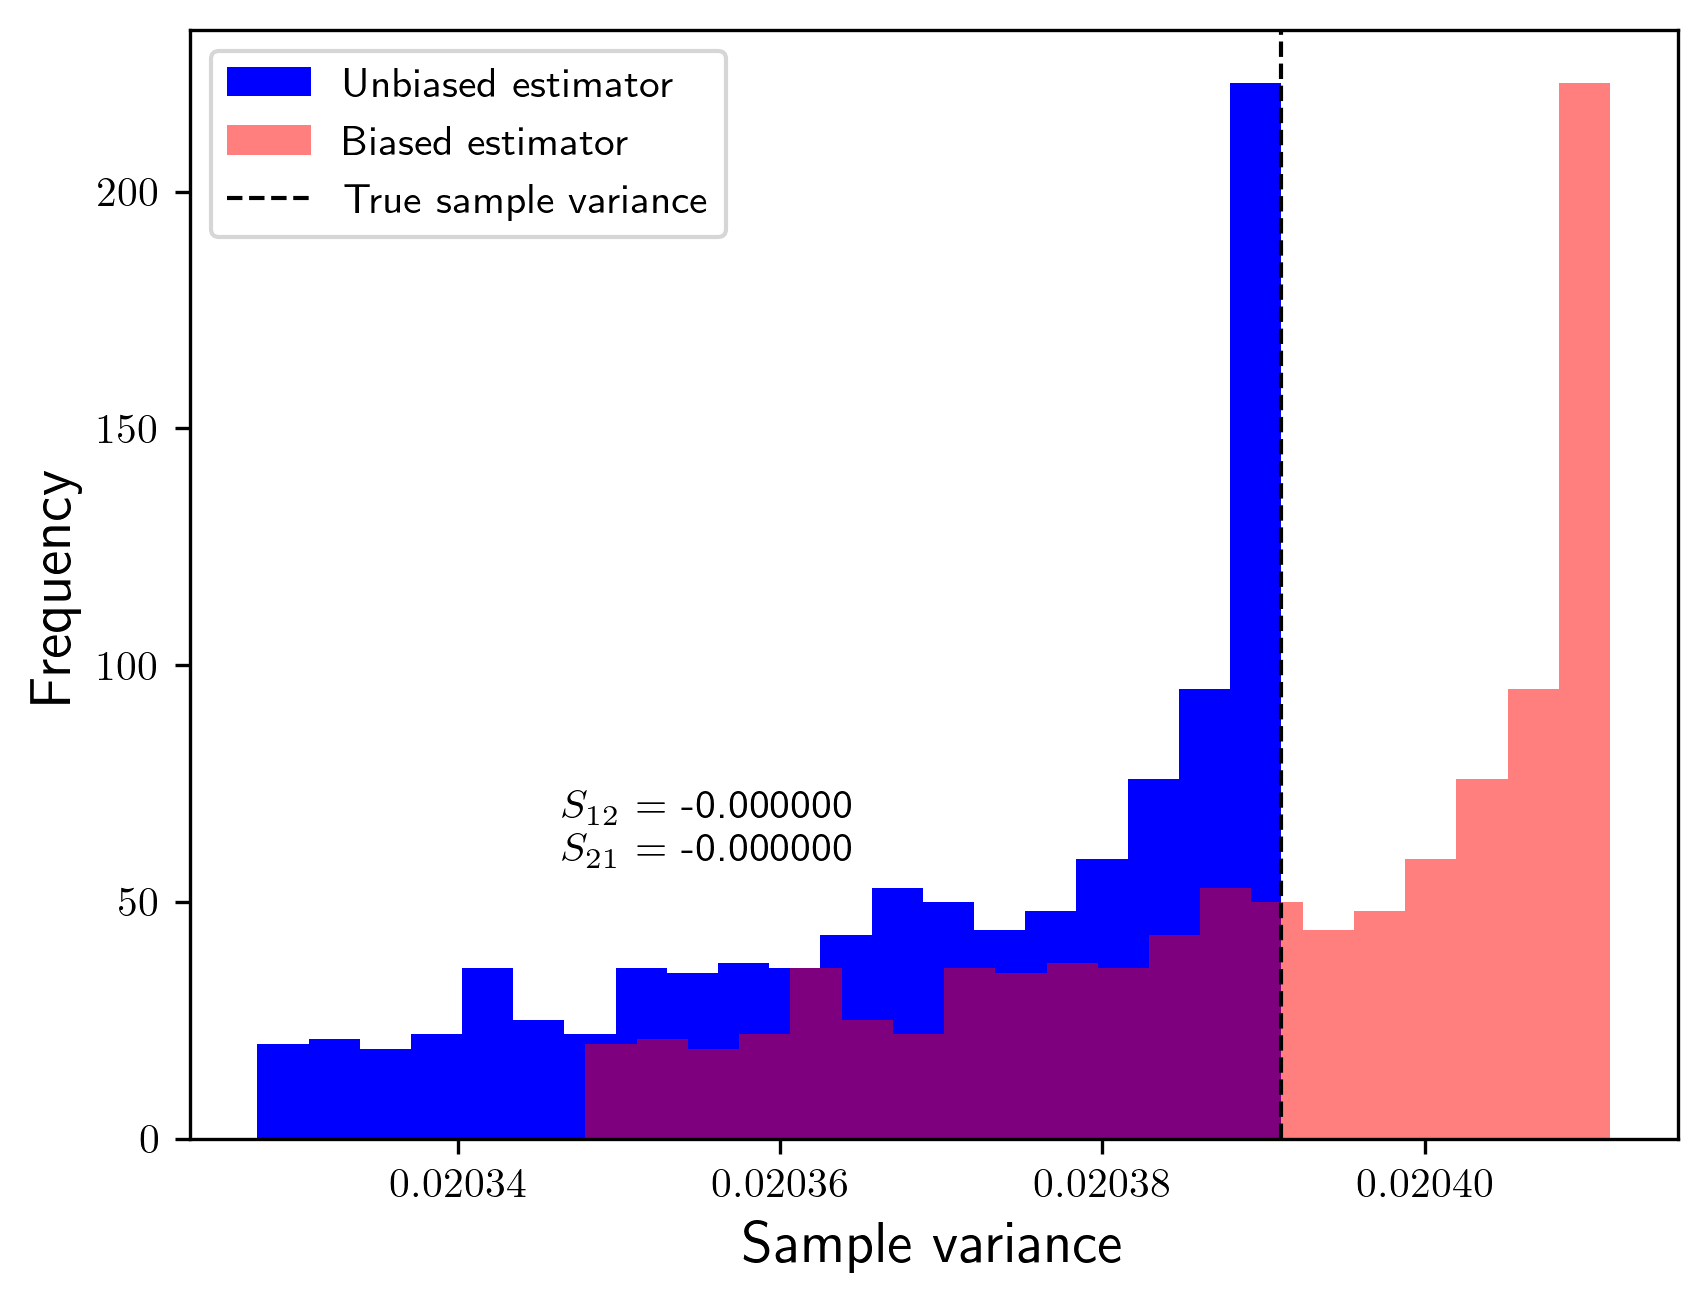
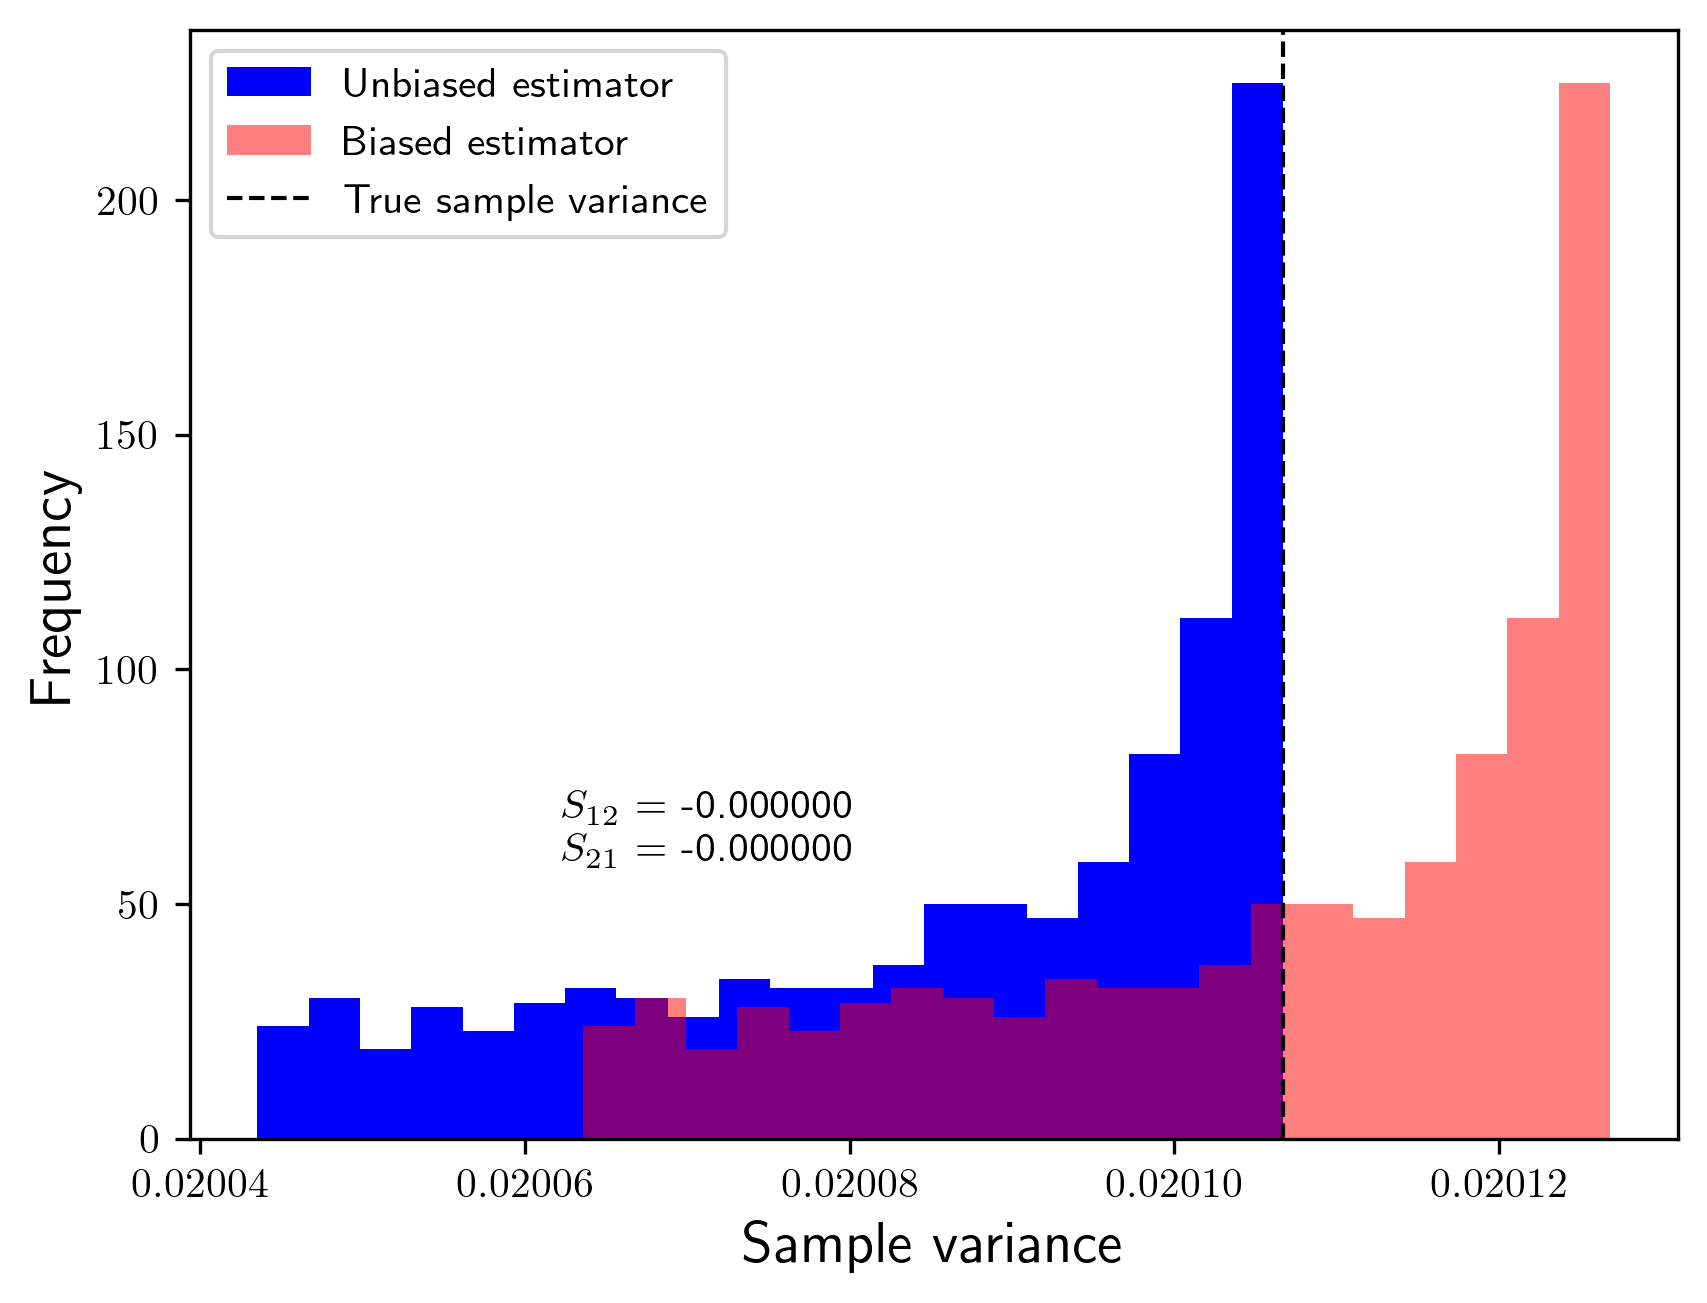
Added files

diff --git a/n_point_func.py b/n_point_func.py
@@ -1,0 +1,90 @@
+#!/usr/bin/python3
+
+import numpy as np
+import matplotlib.pyplot as plt
+from scipy.ndimage import correlate
+from gen_gauss_2D import gauss_2D
+
+import numpy as np
+from scipy.signal import correlate2d
+
+# Define the field
+size = 128
+field = gauss_2D(size=size, alpha=1)
+field += gauss_2D(size=size, alpha=0)
+field += gauss_2D(size=size, alpha=2)
+
+
+# # Create a non-Gaussian component by adding a sinusoidal modulation
+# x, y = np.meshgrid(np.arange(size), np.arange(size))
+# field += 1 * np.sin(2 * np.pi * (x + y) / size)
+
+# Calculate the autocorrelation function
+autocorr = correlate2d(field, field, mode='same')
+corrfunc = autocorr #/ (field.size * field.mean()**2)
+
+# Calculate the distance from the center of the field to each point
+x, y = np.meshgrid(np.arange(field.shape[0]), np.arange(field.shape[1]))
+r = np.sqrt((x - field.shape[0]/2)**2 + (y - field.shape[1]/2)**2)
+
+# Calculate the radial average of the correlation function
+# Define the bins
+bins = np.arange(0, np.ceil(r.max()), 1)
+# Get the indices of the bins
+digitized = np.digitize(r.flat, bins)
+radial_avg = np.zeros(len(bins))
+for i in range(1, len(bins)):
+    # For each bin, find the indices of the correlation function
+    # that fall within that bin, then calculate the mean of those indices
+    radial_avg[i-1] = corrfunc.flat[digitized == i].mean()
+
+
+def three_point_function(field, r_bins):
+    # Compute the shape of the field
+    nx, ny = field.shape
+
+    # Generate a grid of indices
+    x, y = np.meshgrid(np.arange(nx), np.arange(ny), indexing='ij')
+
+    # Compute the pairwise distances between all points
+    dx = x[:, :, np.newaxis] - x[:, np.newaxis, :]
+    dy = y[:, :, np.newaxis] - y[:, np.newaxis, :]
+    distances = np.sqrt(dx**2 + dy**2)
+
+    # Compute the product of the field at all points
+    product = field[:, :, np.newaxis] * field[:, np.newaxis, :] * field[np.newaxis, :, :]
+
+    # Compute the bin indices for each pair of points
+    bin_indices = np.digitize(distances.flat, r_bins, right=True)
+
+    # Compute the sum and count for each bin using bincount
+    sums = np.bincount(bin_indices, weights=product.flat)
+    counts = np.bincount(bin_indices)
+
+    # Compute the average for each bin
+    average = sums[1:] / counts[1:]
+
+    return average
+
+
+r_bins = np.arange(0, r.max(), 1)
+three_pcf = three_point_function(field, r_bins)
+
+# Plot the field and the correlation function
+plt.rcParams.update({"text.usetex": True})
+plt.rcParams.update({"font.family": "serif"})
+fig, ax = plt.subplots(1, 2, figsize=(10, 6))#, sharex=True, sharey=True)
+for j in range(2):
+    ax[j].minorticks_on()
+im = ax[0].imshow(field, cmap='rainbow')
+# plt.colorbar(im, use_gridspec=True)
+ax[0].set_title('Field', fontsize=16)
+
+# im_corr = ax[1].imshow(corrfunc, cmap='gray')
+ax[1].plot(bins[:-1], radial_avg[:-1], c='b', label='2-PCF')
+ax[1].plot(r_bins[:-1], three_pcf[:-1], c='r', label='3-PCF')
+ax[1].legend()
+# plt.colorbar(im_corr, use_gridspec=True)
+ax[1].set_title('Radially averaged n-PCFs', fontsize=16)
+plt.tight_layout()
+plt.show()

diff --git a/gen_gauss_2D.py b/gen_gauss_2D.py
@@ -1,0 +1,85 @@
+#!/usr/bin/python3
+
+# Main dependencies
+import numpy as np
+import matplotlib.pyplot as plt
+from scipy.spatial import Delaunay
+
+def gauss_2D(size: int = 1024, alpha: float = 1, norm: bool = True, 
+            visualise: bool = False, save_name: str = 'gauss_2D') -> np.array:
+
+    """Returns a 2D Gaussian field of specified size from a power spectrum
+        with scale alpha. If norm is True, the resulting field will have zero
+        mean and unit standard deviation."""
+
+    # Set up the k-space grid
+    k_ind = np.mgrid[:size, :size] - int((size+1)/2)
+    k_idx = np.fft.fftshift(k_ind)
+
+    # Define the amplitude as a power law |k|^(-alpha)
+    amplitude = np.power(k_idx[0]**2 + k_idx[1]**2 + 1e-10, -alpha)
+    amplitude[0,0] = 0
+
+    # Generate the field and transford to real space
+    noise = np.random.normal(size = (size, size)) + 1j * np.random.normal(size = (size, size))
+    gfield = np.fft.ifft2(noise * amplitude).real
+
+    # Normalise the field if specified
+    if norm == True:
+        # Sets the mean to zero and standard deviation to one
+        gfield = gfield - np.mean(gfield)
+        gfield = gfield/np.std(gfield)
+
+    else:
+        pass
+
+    # Plot the field if specified
+    if visualise == True:
+        plt.rcParams.update({"text.usetex": True})
+        plt.rcParams.update({"font.family": "serif"})
+        fig, ax = plt.subplots()
+        ax.minorticks_on()
+        plt.imshow(gfield, cmap='rainbow', extent=(0, 0.5, 0, 0.5))
+        ax.set_xlabel(r'$x/L$', fontsize=18)
+        ax.set_ylabel(r'$y/L$', fontsize=18)
+        cbar = plt.colorbar()
+        cbar.set_label(r'$\delta(\mathbf{x})$', fontsize=20)
+        plt.savefig('./plots/{}.png'.format(save_name),dpi=300)
+        plt.close()
+
+    else:
+        pass
+
+    return gfield
+
+
+
+# # Generate a 2D density field with random values
+# N = 512 # size of field
+# field = gauss_2D(size=N, visualise=True)
+# # field_k = np.fft.fft2(field)
+
+# # # Bin the power in specified k-modes to get a 1D array
+# # power_spectrum = np.abs(field_k)**2
+
+# # # calculate the frequency grid
+# # freqs = np.fft.fftfreq(N, d=1./N)
+# # freqs_x, freqs_y = np.meshgrid(freqs, freqs)
+# # freqs = np.sqrt(freqs_x**2 + freqs_y**2)
+
+# # # calculate the radial average of the power spectrum
+# # bins = np.arange(0, 1.5*np.max(freqs), 1)
+# # digitized = np.digitize(freqs.flat, bins)
+# # bin_means = [power_spectrum.flat[freqs.flat == i].mean() for i in range(1, len(bins))]
+# # bin_centers = (bins[1:] + bins[:-1])/2
+
+# # # plot the power spectrum
+# # import matplotlib.pyplot as plt
+# # plt.loglog(bin_centers, bin_means)
+# # plt.xlabel('Frequency')
+# # plt.ylabel('Power Spectrum')
+# # plt.show()
+
+
+# # def power(gfield: np.array) -> np.array:
+# #     """Returns the power spectrum for a given density field."""

diff --git a/rel_entropy.py b/rel_entropy.py
@@ -7,9 +7,8 @@ from typing import Callable
 
 def entropy_calc(data: np.array, est_1: Callable, est_2: Callable, 
                  visualise: bool = False, save_name: None = str) -> tuple:
-    """Calculate the relative entropy of two input estimators of the variance
+    """Calculates the relative entropy of two input estimators of the variance
       of given input data."""
-
     # Define functions
     def jackknife_variance(data: np.array, variance_func: Callable) -> tuple:
         """Use jackknife resampling to construct a distribution of
@@ -35,9 +34,10 @@ def entropy_calc(data: np.array, est_1: Callable, est_2: Callable,
     counts_biased = np.histogram(var_dist_biased, bins=bins, density=True)[0]
 
     # Next, use the scipy function 'entropy' to get the relative entropy
+    # The unit of entropy is bits
     eps = 1e-10 # Add a small number to the counts to avoid division by zero
-    relative_entropy_12 = np.round(entropy(counts_unbiased+eps, counts_biased+eps), 4)
-    relative_entropy_21 = np.round(entropy(counts_biased+eps, counts_unbiased+eps), 4)
+    relative_entropy_12 = np.round(entropy(counts_unbiased+eps, counts_biased+eps, base=2), 4)
+    relative_entropy_21 = np.round(entropy(counts_biased+eps, counts_unbiased+eps, base=2), 4)
 
     if visualise == True:
         # Plot histograms of jackknife variance estimates
@@ -58,7 +58,7 @@ def entropy_calc(data: np.array, est_1: Callable, est_2: Callable,
         if save_name is not None:
             plt.savefig('plots/{}.png'.format(save_name), bbox_inches='tight', dpi=300)
         else:
-            plt.savefig('plots/example.png', bbox_inches='tight', dpi=300)
+            plt.savefig('plots/example_3.png', bbox_inches='tight', dpi=300)
         plt.close()
 
     else:

diff --git a/examples.py b/examples.py
@@ -52,6 +52,6 @@ print('S_12 = {}, S_21 = {}'.format(ent_12,
 est_1 = lambda x: np.var(x, ddof=0) # biased
 est_2 = lambda x: np.percentile(x, 75) - np.percentile(x, 25) # interquartile range
 # Calculate the relative entropy and print the results
-ent_12, ent_21 = entropy_calc(data, est_1, est_2, visualise=False)
+ent_12, ent_21 = entropy_calc(data, est_1, est_2, visualise=True)
 print('S_12 = {}, S_21 = {}'.format(ent_12,
             ent_21))
